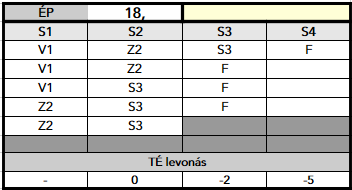
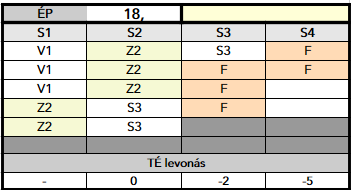
Szöveggondozás: Harcrendszer VI

diff --git a/md/061_03_sebesules.md b/md/061_03_sebesules.md
@@ -13,9 +13,18 @@ A karakter Életerejét `4` kategória szimbolizálja egy táblázatban, melyek 
 
 Mikor a karaktert sebesülés éri, elkezdi bejelölni az Életerő táblázatban a legmagasabb (`S1`) kategóriában lévő mezőket fentről lefelé. Mikor az első oszlop „betelt”, folytatja az `S2`, majd az `S3` kategóriában levőkkel és így tovább.
 
+#### Sebek jellegének jelölései
+
 Hasznos segítség lehet, ha sérüléskor nem beikszeljük az egyes négyzeteket, hanem a sebesülés „sorszámát” (hányadik seb a harc során) és annak jellegét (`S,V,Z`) írjuk beléjük (`Szúró,Vágó,Zúzó`), megkönnyítve a dolgunkat: rögtön látjuk, hány és mekkora sebünk van. (Az `FP` sérülések mezőbe pedig „`F`” betűt írjunk).
 
-Példa: „`Z2`” jelölés 4 db rubrikában: ez a karakter második sebe és egy `4 ÉP`-s zúzott sebet jelöl.
+```
+S: Szúrt seb
+V: Vágott seb
+Z: Zúzott seb
+F: FP
+```
+
+Példa: `Z2` jelölés `4 db` rubrikával: ez a karakter második sebe és egy `4 ÉP`-s zúzott sebet jelöl.
 
 ![](images/02_eletero_tablazat_harcertek_levonassal.png)
 
@@ -28,8 +37,7 @@ A sima `ÉP` és az `FP` értékek kezelése ugyanabban az `ÉP` táblázatban t
 
 Először jelöljük be a valós sebesülés okozta `ÉP`-ket, majd utána az `FP`-ket (ajánlott egy `F` betű írása a rubrikákba).
 
-A lenti példa:
-
+#### ⚡ Példa FP jelölésére
 
 ```
 2 db valós seb
@@ -39,6 +47,8 @@ A lenti példa:
 ```
 
 ![](images/06_fp.png)
+
+<br />
 
 ---
 ### Fájdalomtűrés
@@ -112,15 +122,19 @@ S4:  -7 TÉ
 
 Mérgezés, kínzás, egyéb fájdalom esetén a karakterek **Fájdalomtűrés** képzettségpróbát kell dobnia a KM által meghatározott célszámra - általában **Önuralom** Tulajdonsággal.
 
+<br />
+
 ---
 ### Sérülés hatása Tulajdonság- és Képzettségpróbára
 
 Ha megsérül a karakter és `S3`, vagy `S4` kategóriába került, akkor ["Sérült" Státuszt](082_statuszok.md#%EF%B8%8F-s%C3%A9r%C3%BClt-1-s3) kap és az ott leírtak szerinti hatások sújtják.
 
----
-### ⚡ Példa a sebesülésre
+<br />
 
-Az alábbi példa Lord Gustav – Domvik lovagjának – egészség kategóriáit mutatja.
+---
+### ⚡ Komplex példa a sebesülésre
+
+Láásuk Lord Gustav – Domvik lovagjának – egészség kategóriáit.
 
 ```
 ÉP: 18
@@ -131,50 +145,53 @@ S3: -2 TÉ
 S4: -5 TÉ
 ```
 
-Ebben az esetben az ő Életerő táblázata a következőképpen néz ki: minden oszlopba `4` - `4` `ÉP` kerül (`17 / 4` kerekítve). A maradék `1 ÉP`-t pedig balról jobbra „osztjuk el”, tehát az `S1` oszlopba kerül.
-
-Sebek jellegének jelölései:
-
-```
-S: Szúrt seb
-V: Vágott seb
-Z: Zúzott seb
-F: FP
-```
+Minden oszlopba `4` - `4` `ÉP` kerül (`18 / 4` kerekítve).\
+A maradék `2 ÉP`-t balról jobbra „osztjuk el”, tehát az `S1` oszlopba kerül.
 
 ![](images/03_eletero_lord_gustav.png)
 
 ```
 S1
 ```
-Találat esetén a sebesülést először az `S1` rubrikában kezdjük jelölni, oszlopon belül pedig fentről lefelé. Ha Lord Gustav egy `2 ÉP`-s sebet kap, az az `S1` oszlopban kerül bejelölésre fentről lefele. Ilyenkor még nem sújtja levonás.
+
+Ha Lord Gustav egy `3 ÉP` súlyosságú sebet kap, az az `S1` oszlopban kerül bejelölésre fentről lefele. Ilyenkor még nem sújtja levonás.
 
 ```
 S2
 ```
 
-Gustav ismét megsebesül. Ezúttal `5 ÉP`, ezzel az `S2` kategóriába kerül. Mivel a `Fájdalomtűrés` `4` ponttal mérsékli a standard `S2`-nél használt (`TÉ:-3`) büntetést, ezért még itt sincs `TÉ` levonás.
+Gustav ismét megsebesül. Ezúttal `5 ÉP`, ezzel az `S2` kategóriába kerül.\
+Mivel a `Fájdalomtűrés` `4` ponttal mérsékli a standard `S2`-nél használt (`TÉ:-3`) büntetést, ezért még itt sincs `TÉ` levonás.
 
 ```
 S3
 ```
 
-A harmadik seb `4 ÉP`, Gustav a harmadik (közepesen sérült) kategóriába kerül. Alapból (`TÉ:-6`) lenne a büntetés, de ez (`TÉ:-2`)-re mérséklődik.
+A harmadik seb `3 ÉP`, Gustav a harmadik (közepesen sérült) kategóriába kerül. Alapból (`TÉ:-6`) lenne a büntetés, de ez (`TÉ:-2`)-re mérséklődik.
 
 ```
 S4
 ```
 
-Gustav hátrálás közben belefejel a kovácsoltvas kapuba. `4 FP` a büntetése. Ezzel az `S4` (utolsó) kategóriába került. Büntetése `TÉ:-5` (a `-9` helyett).
+Gustav hátrálás közben belefejel a kovácsoltvas kapuba. `5 FP` a büntetése. Ezzel az `S4` (utolsó) kategóriába került.\
+Büntetése `TÉ:-5` (a `-9` helyett).
 
 Mivel `S4` kategóriába került, jön az [automatikus Fájdalomtűrás próba](#s4-kateg%C3%B3ri%C3%A1s-f%C3%A1jdalomt%C5%B1r%C3%A9s) `12` (Nehéz) ellen **Edzettség** Tulajdonsággal. Ha elrontja, akkor el is ájul.
 
 Ha túléli a kalandot, akkor a „szerzett” `4 FP` gyógyulása `4 óra` alatt, a valós sebek okozta `ÉP` csökkenés gyógyulása pedig a [Gyógyulás](061_04_gyogyulas.md) fejezetben meghatározott ütemben történik.
 
+<br />
+
 ---
 ### Haldoklás
 
-Ha a karakter ÉP-inek száma `0`-ra zuhan, akkor haldokolni kezd.
+```
+Edzettség tulajdonságpróba
+
+Nehézség: 5 (Átlagos)
+```
+
+Ha a karakter `ÉP` értéke `0`-ra zuhan, akkor haldokolni kezd.
 
 Ilyenkor dobnia kell egy `Edzettség` tulajdonságpróbát `Átlagos (5-ös)` nehézség ellen. Ha megdobja, életben marad, de `2 perc` múlva újra dobnia kell, míg nem stabilizálják. Ha elrontja, meghal.
 

diff --git a/md/061_02_faradsag_pont.md b/md/061_02_faradsag_pont.md
@@ -41,7 +41,9 @@ Amennyiben az életerő táblázat "betelt" és van benne `FP`, akkor a "túlcso
 2 FP: alvásban óránként
 ```
 
-Az `FP`, mivel nem valós sebesülés okozta, gyorsabban „gyógyul”, mint a valós `ÉP` seb. Fizikai behatás esetén kb. **óránként 1 pont „tűnik el”**, és így szép lassan „visszaolvad” a valós sebzésbe.
+Az `FP`, mivel nem valós sebesülés okozta, gyorsabban „gyógyul”, mint a valós `ÉP` seb.
+
+Fizikai behatás esetén kb. **óránként 1 pont „tűnik el”**, és így szép lassan „visszaolvad” a valós sebzésbe.
 
 Mérgezés, betegség esetén a hatás tartósabb is lehet, itt a KM dönt. **Alvás közben** a gyógyulási sebesség duplázódik, tehát `2 FP / óra`. Ha a KM úgy látja indokoltnak eltérhet a fenti számoktól.
 
@@ -64,7 +66,7 @@ Az `FP` kiválóan alkalmas kocsmai verekedések, kisebb – nem „vérre menő
 
 **Minden `5. FP` okoz csak `1 ÉP` valós sebesülést: `4 FP, 1 ÉP`**
 
-A szabály sebzésenként számít, tehát bekaphat a karakter több '4 FP' sebet anélkül, hogy 'ÉP' sebet szerezne.
+A szabály sebzésenként számít, tehát a karakter elszenvedhet több `4 FP` értékű csapást anélkül, hogy `ÉP` sebet szerezne.
 
 ---
 ### Fejbe vágás
